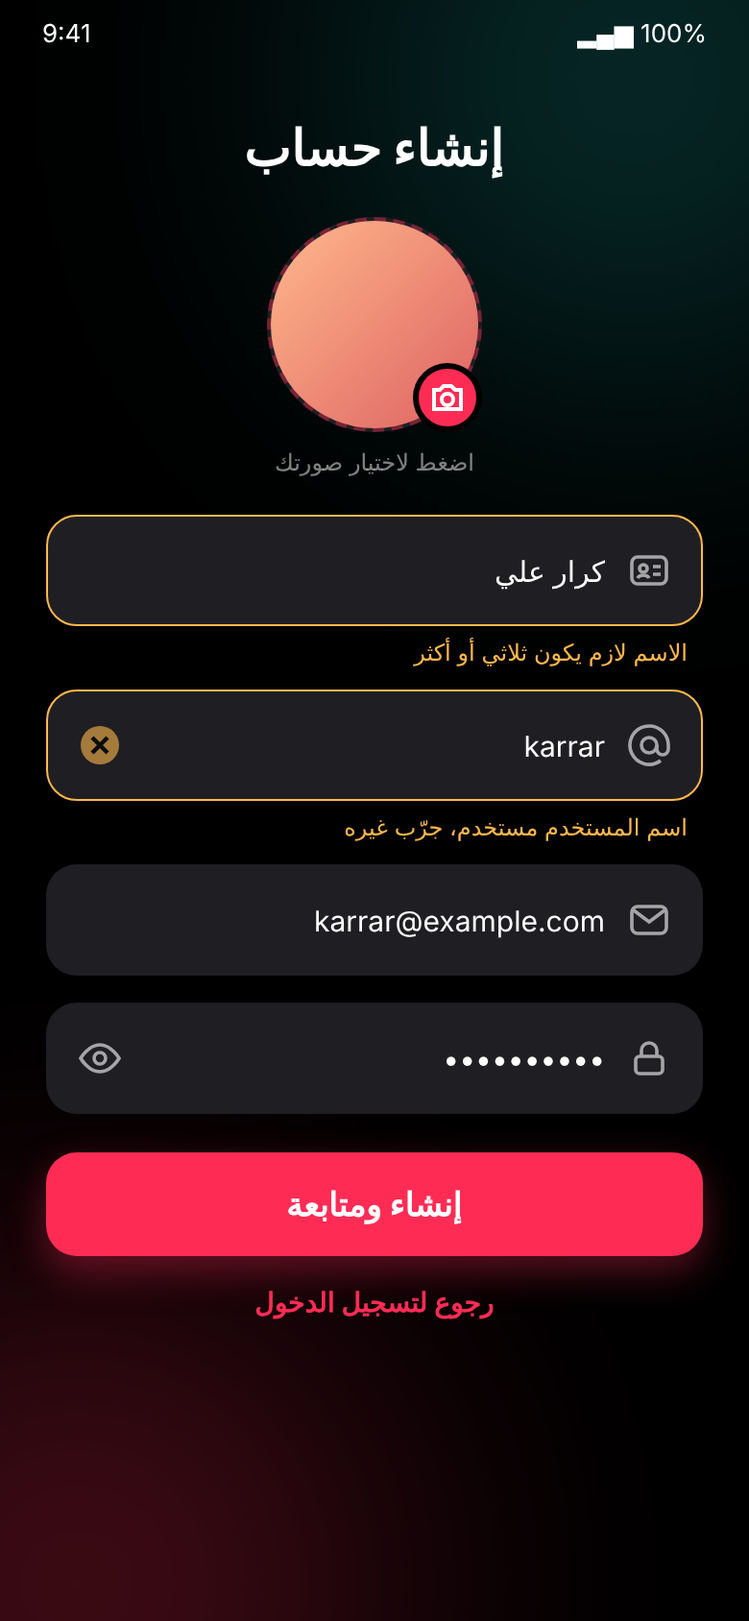
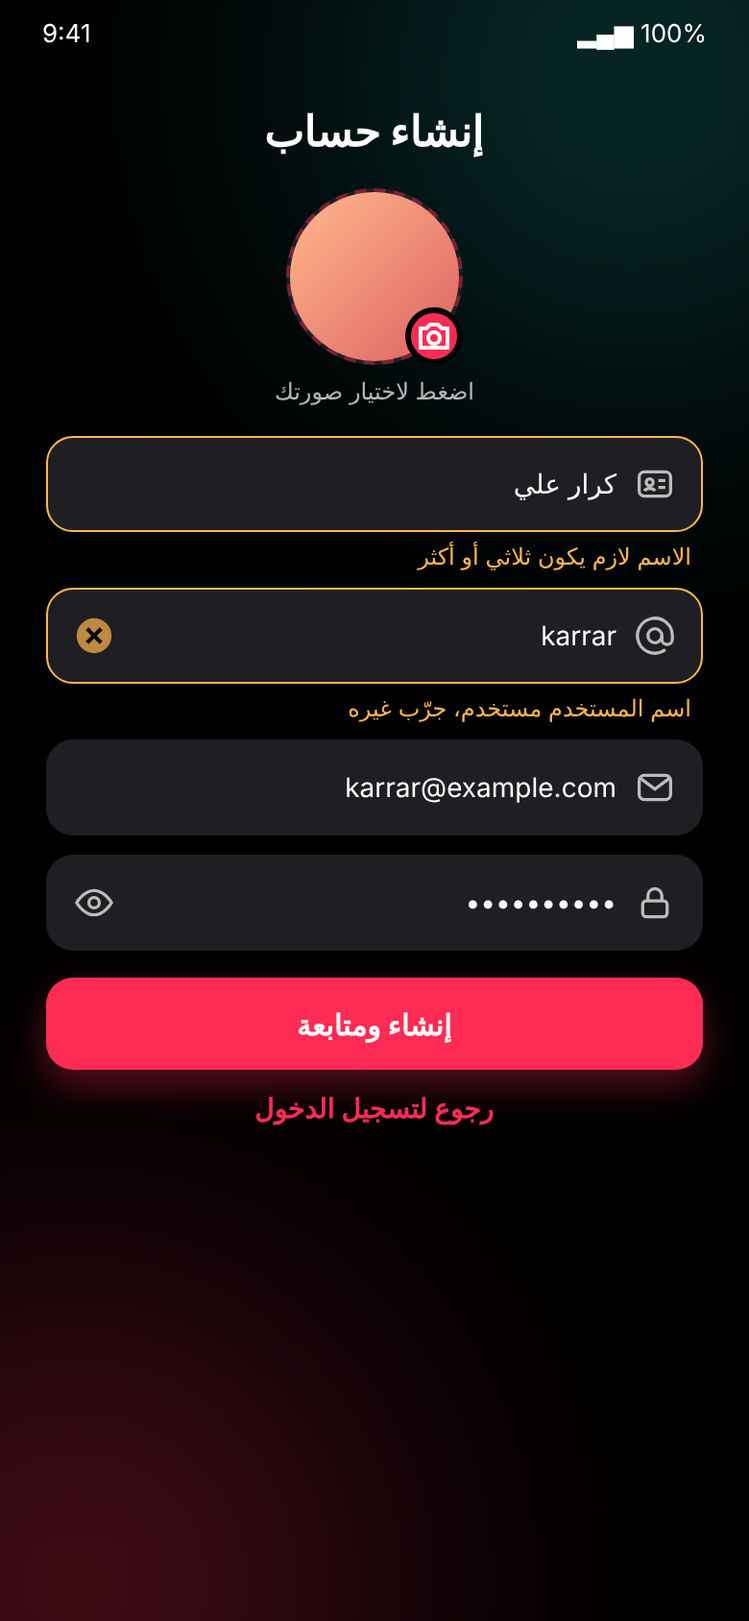
Tidy auth layout: smaller buttons/text, clearer labels, tighter spacing
Claude-Session: https://claude.ai/code/session_01N6c9u912eeEXPPBNT32Pm8

diff --git a/mockups/mock.html b/mockups/mock.html
@@ -6,28 +6,28 @@ body{width:390px;height:844px;background:#000;color:#fff;font-family:system-ui,"
 .glow{position:absolute;width:320px;height:320px;border-radius:50%;filter:blur(90px);opacity:.35}
 .g1{background:#25F4EE;opacity:.18;top:-120px;right:-100px}.g2{background:#FE2C55;bottom:-140px;left:-120px;opacity:.28}
 .status{position:absolute;top:0;left:0;right:0;height:34px;display:flex;justify-content:space-between;padding:10px 22px;font-size:13px;direction:ltr;z-index:3}
-.screen{position:relative;z-index:2;height:100%;padding:70px 24px 24px;display:flex;flex-direction:column}
-.center{justify-content:center;padding-top:34px}
-.logo{display:flex;flex-direction:column;align-items:center;margin-bottom:34px}
-.logo .ic{width:76px;height:76px;border-radius:24px;background:#000;border:1px solid #ffffff1f;display:grid;place-items:center;box-shadow:0 12px 30px #FE2C5555}
-.logo h1{font-size:30px;font-weight:800;margin-top:14px}
-.logo p{color:#ffffff80;font-size:13px;margin-top:4px}
-.field{background:#1F1F23;border-radius:16px;height:58px;display:flex;align-items:center;gap:12px;padding:0 16px;margin-bottom:14px;border:1.6px solid transparent;color:#ffffff66;font-size:15px}
-.field svg{flex:none;opacity:.6}
+.screen{position:relative;z-index:2;height:100%;padding:64px 24px 24px;display:flex;flex-direction:column}
+.center{justify-content:center;padding-top:40px;padding-bottom:90px}
+.logo{display:flex;flex-direction:column;align-items:center;margin-bottom:26px}
+.logo .ic{width:64px;height:64px;border-radius:20px;background:#000;border:1px solid #ffffff1f;display:grid;place-items:center;box-shadow:0 12px 30px #FE2C5555}
+.logo h1{font-size:24px;font-weight:800;margin-top:10px}
+.logo p{color:#ffffffb3;font-size:12px;margin-top:3px}
+.field{background:#1F1F23;border-radius:14px;height:50px;display:flex;align-items:center;gap:10px;padding:0 14px;margin-bottom:10px;border:1.5px solid transparent;color:#ffffffb3;font-size:14px}
+.field svg{flex:none;opacity:.7;width:20px;height:20px}
 .field span{flex:1}.field.val{color:#fff}
 .field.focus{border-color:#FE2C55}
 .field.err{border-color:#FFB84D}.field.ok{border-color:#3ddc97}
-.hint{font-size:12px;margin:-8px 8px 12px;}
+.hint{font-size:12px;margin:-5px 6px 9px;}
 .hint.e{color:#FFB84D}.hint.o{color:#3ddc97}
-.forgot{color:#FE2C55;font-size:14px;margin:-2px 4px 18px}
-.btn{height:54px;border-radius:16px;background:#FE2C55;display:grid;place-items:center;font-weight:700;font-size:17px;box-shadow:0 8px 20px #FE2C5559}
-.alt{text-align:center;margin-top:22px;font-size:14px;color:#ffffffcc}.alt b{color:#FE2C55;margin-right:6px}
-.back{text-align:center;color:#FE2C55;font-size:14px;margin-top:16px;font-weight:600}
-h2{font-size:26px;font-weight:800;text-align:center;margin-bottom:20px}
-.avatar{align-self:center;position:relative;width:112px;height:112px}
-.avatar .c{width:112px;height:112px;border-radius:50%;background:#1F1F23;display:grid;place-items:center;overflow:hidden;border:2px dashed #FE2C5566}
-.avatar .cam{position:absolute;bottom:0;right:0;width:36px;height:36px;border-radius:50%;background:#FE2C55;display:grid;place-items:center;border:3px solid #000}
-.cap{text-align:center;color:#ffffff80;font-size:12px;margin:8px 0 20px}
+.forgot{color:#ffffffb3;font-size:13px;margin:0 4px 14px}
+.btn{height:48px;border-radius:14px;background:#FE2C55;display:grid;place-items:center;font-weight:700;font-size:15px;box-shadow:0 8px 20px #FE2C5559}
+.alt{text-align:center;margin-top:14px;font-size:13px;color:#ffffffb3}.alt b{font-size:14px}.alt b{color:#FE2C55;margin-right:6px}
+.back{text-align:center;color:#FE2C55;font-size:14px;margin-top:12px;font-weight:600}
+h2{font-size:22px;font-weight:800;text-align:center;margin-bottom:16px}
+.avatar{align-self:center;position:relative;width:92px;height:92px}
+.avatar .c{width:92px;height:92px;border-radius:50%;background:#1F1F23;display:grid;place-items:center;overflow:hidden;border:2px dashed #FE2C5566}
+.avatar .cam{position:absolute;bottom:0;right:0;width:30px;height:30px;border-radius:50%;background:#FE2C55;display:grid;place-items:center;border:3px solid #000}
+.cap{text-align:center;color:#ffffffb3;font-size:12px;margin:6px 0 16px}
 .photo{background:linear-gradient(135deg,#ffb88c,#de6262);width:100%;height:100%}
 /* crop */
 .crop{position:absolute;inset:0;background:#000;z-index:5;display:flex;flex-direction:column}
@@ -48,37 +48,37 @@ h2{font-size:26px;font-weight:800;text-align:center;margin-bottom:20px}
 <body><div id="ph" dir="rtl" style="position:absolute;inset:0;overflow:hidden">
 <div class="glow g1"></div><div class="glow g2"></div>
 <div class="status"><span>9:41</span><span>▂▄▆ 100%</span></div>
-<div id="root"></div>
+<div id="root" style="height:100%"></div>
 </div><script>
 const I={
-mail:'<svg width="22" height="22" fill="none" stroke="#fff" stroke-width="1.8"><rect x="2" y="4" width="18" height="14" rx="3"/><path d="M3 6l8 6 8-6"/></svg>',
-lock:'<svg width="22" height="22" fill="none" stroke="#fff" stroke-width="1.8"><rect x="4" y="10" width="14" height="9" rx="2"/><path d="M7 10V7a4 4 0 018 0v3"/></svg>',
-eye:'<svg width="22" height="22" fill="none" stroke="#fff" stroke-width="1.8"><path d="M1 11s4-7 10-7 10 7 10 7-4 7-10 7S1 11 1 11z"/><circle cx="11" cy="11" r="3"/></svg>',
-user:'<svg width="22" height="22" fill="none" stroke="#fff" stroke-width="1.8"><circle cx="11" cy="8" r="4"/><path d="M3 20c1-5 5-6 8-6s7 1 8 6"/></svg>',
-at:'<svg width="22" height="22" fill="none" stroke="#fff" stroke-width="1.8"><circle cx="11" cy="11" r="4"/><path d="M15 11v2a3 3 0 006 0v-2a10 10 0 10-4 8"/></svg>',
-badge:'<svg width="22" height="22" fill="none" stroke="#fff" stroke-width="1.8"><rect x="2" y="4" width="18" height="14" rx="3"/><circle cx="8" cy="10" r="2"/><path d="M13 9h4M13 13h4M5 15c1-2 5-2 6 0"/></svg>',
+mail:'<svg width="22" height="22" viewBox="0 0 22 22" fill="none" stroke="#fff" stroke-width="1.8"><rect x="2" y="4" width="18" height="14" rx="3"/><path d="M3 6l8 6 8-6"/></svg>',
+lock:'<svg width="22" height="22" viewBox="0 0 22 22" fill="none" stroke="#fff" stroke-width="1.8"><rect x="4" y="10" width="14" height="9" rx="2"/><path d="M7 10V7a4 4 0 018 0v3"/></svg>',
+eye:'<svg width="22" height="22" viewBox="0 0 22 22" fill="none" stroke="#fff" stroke-width="1.8"><path d="M1 11s4-7 10-7 10 7 10 7-4 7-10 7S1 11 1 11z"/><circle cx="11" cy="11" r="3"/></svg>',
+user:'<svg width="22" height="22" viewBox="0 0 22 22" fill="none" stroke="#fff" stroke-width="1.8"><circle cx="11" cy="8" r="4"/><path d="M3 20c1-5 5-6 8-6s7 1 8 6"/></svg>',
+at:'<svg width="22" height="22" viewBox="0 0 22 22" fill="none" stroke="#fff" stroke-width="1.8"><circle cx="11" cy="11" r="4"/><path d="M15 11v2a3 3 0 006 0v-2a10 10 0 10-4 8"/></svg>',
+badge:'<svg width="22" height="22" viewBox="0 0 22 22" fill="none" stroke="#fff" stroke-width="1.8"><rect x="2" y="4" width="18" height="14" rx="3"/><circle cx="8" cy="10" r="2"/><path d="M13 9h4M13 13h4M5 15c1-2 5-2 6 0"/></svg>',
 cam:'<svg width="18" height="18" fill="none" stroke="#fff" stroke-width="2"><path d="M2 5h3l2-2h4l2 2h3v10H2z"/><circle cx="9" cy="10" r="3"/></svg>',
-person:'<svg width="56" height="56" fill="#ffffff55"><circle cx="28" cy="20" r="11"/><path d="M6 52c2-14 12-17 22-17s20 3 22 17z"/></svg>',
-ok:'<svg width="22" height="22" fill="#3ddc97"><circle cx="11" cy="11" r="10"/><path d="M6 11l4 4 6-7" stroke="#000" stroke-width="2.2" fill="none"/></svg>',
-no:'<svg width="22" height="22" fill="#FFB84D"><circle cx="11" cy="11" r="10"/><path d="M7 7l8 8M15 7l-8 8" stroke="#000" stroke-width="2.2"/></svg>',
+person:'<svg width="46" height="46" viewBox="0 0 56 56" fill="#ffffff66"><circle cx="28" cy="20" r="11"/><path d="M6 52c2-14 12-17 22-17s20 3 22 17z"/></svg>',
+ok:'<svg width="22" height="22" viewBox="0 0 22 22" fill="#3ddc97"><circle cx="11" cy="11" r="10"/><path d="M6 11l4 4 6-7" stroke="#000" stroke-width="2.2" fill="none"/></svg>',
+no:'<svg width="22" height="22" viewBox="0 0 22 22" fill="#FFB84D"><circle cx="11" cy="11" r="10"/><path d="M7 7l8 8M15 7l-8 8" stroke="#000" stroke-width="2.2"/></svg>',
 img:'<svg width="24" height="24" fill="none" stroke="#FE2C55" stroke-width="1.8"><rect x="2" y="3" width="20" height="18" rx="3"/><circle cx="8" cy="9" r="2"/><path d="M3 18l6-6 4 4 3-3 5 5"/></svg>'};
 const f=(ic,t,o={})=>`<div class="field ${o.val?'val':''} ${o.cls||''}">${I[ic]}<span ${o.ltr?'style="direction:ltr;text-align:right"':''}>${t}</span>${o.end||''}</div>${o.hint||''}`;
-const logo=`<div class="logo"><div class="ic"><svg width="52" height="52" viewBox="0 0 44 44" style="overflow:visible"><g fill="#25F4EE" transform="translate(-2.2,-2.2)"><circle cx="22" cy="14" r="7"/><circle cx="9" cy="19" r="5" opacity=".8"/><circle cx="35" cy="19" r="5" opacity=".8"/><path d="M8 38c1-9 7-12 14-12s13 3 14 12z"/></g><g fill="#FE2C55" transform="translate(2.2,2.2)"><circle cx="22" cy="14" r="7"/><circle cx="9" cy="19" r="5" opacity=".8"/><circle cx="35" cy="19" r="5" opacity=".8"/><path d="M8 38c1-9 7-12 14-12s13 3 14 12z"/></g><g fill="#fff"><circle cx="22" cy="14" r="7"/><circle cx="9" cy="19" r="5" opacity=".8"/><circle cx="35" cy="19" r="5" opacity=".8"/><path d="M8 38c1-9 7-12 14-12s13 3 14 12z"/></g></svg></div><h1>جماعتكم</h1><p>مقاطعك، جماعتك</p></div>`;
+const logo=`<div class="logo"><div class="ic"><svg width="40" height="40" viewBox="0 0 44 44" style="overflow:visible"><g fill="#25F4EE" transform="translate(-2.2,-2.2)"><circle cx="22" cy="14" r="7"/><circle cx="9" cy="19" r="5" opacity=".8"/><circle cx="35" cy="19" r="5" opacity=".8"/><path d="M8 38c1-9 7-12 14-12s13 3 14 12z"/></g><g fill="#FE2C55" transform="translate(2.2,2.2)"><circle cx="22" cy="14" r="7"/><circle cx="9" cy="19" r="5" opacity=".8"/><circle cx="35" cy="19" r="5" opacity=".8"/><path d="M8 38c1-9 7-12 14-12s13 3 14 12z"/></g><g fill="#fff"><circle cx="22" cy="14" r="7"/><circle cx="9" cy="19" r="5" opacity=".8"/><circle cx="35" cy="19" r="5" opacity=".8"/><path d="M8 38c1-9 7-12 14-12s13 3 14 12z"/></g></svg></div><h1>جماعتكم</h1><p>مقاطعك، جماعتك</p></div>`;
 const S={
 login:`<div class="screen center">${logo}${f('mail','البريد الإلكتروني')}${f('lock','كلمة السر',{end:I.eye})}<div class="forgot">نسيت كلمة السر؟</div><div class="btn">دخول ومتابعة</div><div class="alt">ما عندك حساب؟<b>إنشاء حساب</b></div></div>`,
 login_filled:`<div class="screen center">${logo}${f('mail','karrar@example.com',{val:1,ltr:1,cls:'focus'})}${f('lock','••••••••••',{val:1,ltr:1,end:I.eye})}<div class="forgot">نسيت كلمة السر؟</div><div class="btn">دخول ومتابعة</div><div class="alt">ما عندك حساب؟<b>إنشاء حساب</b></div></div>`,
-reg:(o)=>`<div class="screen" style="padding-top:62px"><h2>إنشاء حساب</h2><div class="avatar"><div class="c">${o.photo?'<div class="photo"></div>':I.person}</div><div class="cam">${I.cam}</div></div><div class="cap">اضغط لاختيار صورتك</div>
+reg:(o)=>`<div class="screen" style="padding-top:56px"><h2>إنشاء حساب</h2><div class="avatar"><div class="c">${o.photo?'<div class="photo"></div>':I.person}</div><div class="cam">${I.cam}</div></div><div class="cap">اضغط لاختيار صورتك</div>
 ${f('badge',o.name||'الاسم الثلاثي',{val:!!o.name,cls:o.nameCls||'',hint:o.nameHint||''})}
 ${f('at',o.user||'اسم المستخدم (اليوزر)',{val:!!o.user,ltr:!!o.user,cls:o.userCls||'',end:o.userEnd||'',hint:o.userHint||''})}
 ${f('mail',o.email||'بريدك الإلكتروني',{val:!!o.email,ltr:!!o.email})}
 ${f('lock',o.pass||'كلمة السر (8 أحرف على الأقل)',{val:!!o.pass,ltr:!!o.pass,end:I.eye})}
-<div class="btn" style="margin-top:6px">إنشاء ومتابعة</div><div class="back">رجوع لتسجيل الدخول</div></div>`,
+<div class="btn" style="margin-top:4px">إنشاء ومتابعة</div><div class="back">رجوع لتسجيل الدخول</div></div>`,
 };
 S.register=S.reg({});
 S.reg_ok=S.reg({photo:1,name:'كرار علي حسن',nameCls:'',user:'karrar_ali',userCls:'ok',userEnd:I.ok,userHint:'<div class="hint o">اسم المستخدم متاح ✓</div>',email:'karrar@example.com',pass:'••••••••••'});
 S.reg_taken=S.reg({photo:1,name:'كرار علي',nameCls:'err',nameHint:'<div class="hint e">الاسم لازم يكون ثلاثي أو أكثر</div>',user:'karrar',userCls:'err',userEnd:I.no,userHint:'<div class="hint e">اسم المستخدم مستخدم، جرّب غيره</div>',email:'karrar@example.com',pass:'••••••••••'});
 S.perm=S.register+`<div class="sheet"><div class="in"><div class="h"></div><div style="font-weight:800;font-size:18px;margin-bottom:6px">اختر صورتك</div><div style="color:#ffffff80;font-size:13px;margin-bottom:8px">جماعتكم يبي يوصل لصورة وحدة بس تختارها، مو كل صورك</div><div class="row"><i>${I.img}</i>اختيار من المعرض</div><div class="row"><i>${I.cam.replace(/#fff/g,'#FE2C55')}</i>التقاط صورة بالكاميرا</div></div></div>`;
 S.crop=`<div class="crop"><div class="bar"><span>✕</span><span>حدد الصورة</span><span style="width:20px"></span></div><div class="area"><div class="shade"></div><div class="grid"></div><div class="ring"></div></div><div class="foot"><span style="color:#ffffff99">إلغاء</span><div class="ok">موافق</div></div></div>`;
-S.forgot=`<div class="screen" style="padding-top:80px"><div style="font-size:26px;font-weight:800">نسيت كلمة السر؟</div><div style="color:#ffffff99;margin:8px 0 28px;font-size:14px">اكتب بريدك وراح نرسل لك رابط إعادة التعيين</div>${f('mail','البريد الإلكتروني')}<div class="btn" style="margin-top:6px">إرسال الرابط</div><div class="back">رجوع لتسجيل الدخول</div></div>`;
+S.forgot=`<div class="screen" style="padding-top:72px"><div style="font-size:22px;font-weight:800">نسيت كلمة السر؟</div><div style="color:#ffffffb3;margin:6px 0 22px;font-size:13px">اكتب بريدك وراح نرسل لك رابط إعادة التعيين</div>${f('mail','البريد الإلكتروني')}<div class="btn" style="margin-top:4px">إرسال الرابط</div><div class="back">رجوع لتسجيل الدخول</div></div>`;
 document.getElementById('root').innerHTML=S[location.hash.slice(1)||'login'];
 </script></body></html>

diff --git a/app/lib/theme.dart b/app/lib/theme.dart
@@ -15,12 +15,15 @@ ThemeData buildTheme() => ThemeData(
       inputDecorationTheme: InputDecorationTheme(
         filled: true,
         fillColor: fieldFill,
-        contentPadding: const EdgeInsets.symmetric(horizontal: 16, vertical: 18),
-        border: OutlineInputBorder(borderRadius: BorderRadius.circular(16), borderSide: BorderSide.none),
-        enabledBorder: OutlineInputBorder(borderRadius: BorderRadius.circular(16), borderSide: BorderSide.none),
-        focusedBorder: OutlineInputBorder(borderRadius: BorderRadius.circular(16), borderSide: const BorderSide(color: brand, width: 1.6)),
-        errorBorder: OutlineInputBorder(borderRadius: BorderRadius.circular(16), borderSide: const BorderSide(color: Color(0xFFFFB84D))),
-        focusedErrorBorder: OutlineInputBorder(borderRadius: BorderRadius.circular(16), borderSide: const BorderSide(color: Color(0xFFFFB84D), width: 1.6)),
+        contentPadding: const EdgeInsets.symmetric(horizontal: 16, vertical: 14),
+        hintStyle: const TextStyle(color: Color(0xB3FFFFFF), fontSize: 14),
+        prefixIconColor: const Color(0xB3FFFFFF),
+        suffixIconColor: const Color(0xB3FFFFFF),
+        border: OutlineInputBorder(borderRadius: BorderRadius.circular(14), borderSide: BorderSide.none),
+        enabledBorder: OutlineInputBorder(borderRadius: BorderRadius.circular(14), borderSide: BorderSide.none),
+        focusedBorder: OutlineInputBorder(borderRadius: BorderRadius.circular(14), borderSide: const BorderSide(color: brand, width: 1.6)),
+        errorBorder: OutlineInputBorder(borderRadius: BorderRadius.circular(14), borderSide: const BorderSide(color: Color(0xFFFFB84D))),
+        focusedErrorBorder: OutlineInputBorder(borderRadius: BorderRadius.circular(14), borderSide: const BorderSide(color: Color(0xFFFFB84D), width: 1.6)),
       ),
     );
 
@@ -32,11 +35,11 @@ class GradientButton extends StatelessWidget {
   @override
   Widget build(BuildContext context) => SizedBox(
         width: double.infinity,
-        height: 54,
+        height: 48,
         child: DecoratedBox(
           decoration: BoxDecoration(
             gradient: const LinearGradient(colors: [brand, brand]),
-            borderRadius: BorderRadius.circular(16),
+            borderRadius: BorderRadius.circular(14),
             boxShadow: [BoxShadow(color: brand.withOpacity(.35), blurRadius: 18, offset: const Offset(0, 8))],
           ),
           child: ElevatedButton(
@@ -44,11 +47,11 @@ class GradientButton extends StatelessWidget {
             style: ElevatedButton.styleFrom(
               backgroundColor: Colors.transparent,
               shadowColor: Colors.transparent,
-              shape: RoundedRectangleBorder(borderRadius: BorderRadius.circular(16)),
+              shape: RoundedRectangleBorder(borderRadius: BorderRadius.circular(14)),
             ),
             child: loading
                 ? const SizedBox(width: 22, height: 22, child: CircularProgressIndicator(strokeWidth: 2.4, color: Colors.white))
-                : Text(text, style: const TextStyle(fontSize: 17, fontWeight: FontWeight.bold, color: Colors.white)),
+                : Text(text, style: const TextStyle(fontSize: 15, fontWeight: FontWeight.bold, color: Colors.white)),
           ),
         ),
       );
@@ -59,21 +62,21 @@ class AuthLogo extends StatelessWidget {
   @override
   Widget build(BuildContext context) => Column(children: [
         Container(
-          width: 76,
-          height: 76,
+          width: 64,
+          height: 64,
           decoration: BoxDecoration(
             color: Colors.black,
             border: Border.all(color: Colors.white12),
             borderRadius: BorderRadius.circular(24),
           ),
           child: Stack(alignment: Alignment.center, children: [
-            Transform(transform: Matrix4Translate.shift(-2.5, -2.5), child: const Icon(Icons.groups_rounded, size: 42, color: cyan)),
-            Transform(transform: Matrix4Translate.shift(2.5, 2.5), child: const Icon(Icons.groups_rounded, size: 42, color: brand)),
-            Icon(Icons.groups_rounded, size: 42, color: Colors.white),
+            Transform(transform: Matrix4Translate.shift(-2.5, -2.5), child: const Icon(Icons.groups_rounded, size: 34, color: cyan)),
+            Transform(transform: Matrix4Translate.shift(2.5, 2.5), child: const Icon(Icons.groups_rounded, size: 34, color: brand)),
+            Icon(Icons.groups_rounded, size: 34, color: Colors.white),
           ]),
         ),
-        const SizedBox(height: 14),
-        const Text('جماعتكم', style: TextStyle(fontSize: 30, fontWeight: FontWeight.w800)),
+        const SizedBox(height: 10),
+        const Text('جماعتكم', style: TextStyle(fontSize: 24, fontWeight: FontWeight.w800)),
       ]);
 }
 

diff --git a/app/lib/register_screen.dart b/app/lib/register_screen.dart
@@ -95,25 +95,25 @@ class _RegisterScreenState extends State<RegisterScreen> {
             child: Form(
               key: _form,
               child: Column(children: [
-                const Text('إنشاء حساب', style: TextStyle(fontSize: 26, fontWeight: FontWeight.w800)),
-                const SizedBox(height: 22),
+                const Text('إنشاء حساب', style: TextStyle(fontSize: 22, fontWeight: FontWeight.w800)),
+                const SizedBox(height: 16),
                 GestureDetector(
                   onTap: _pickAvatar,
                   child: Stack(children: [
-                    CircleAvatar(radius: 56, backgroundColor: fieldFill, backgroundImage: _avatar != null ? FileImage(_avatar!) : null,
-                        child: _avatar == null ? const Icon(Icons.person_rounded, size: 56, color: Colors.white38) : null),
+                    CircleAvatar(radius: 46, backgroundColor: fieldFill, backgroundImage: _avatar != null ? FileImage(_avatar!) : null,
+                        child: _avatar == null ? const Icon(Icons.person_rounded, size: 46, color: Colors.white54) : null),
                     Positioned(bottom: 0, right: 0, child: Container(padding: const EdgeInsets.all(8), decoration: const BoxDecoration(color: brand, shape: BoxShape.circle), child: const Icon(Icons.camera_alt_rounded, size: 18, color: Colors.white))),
                   ]),
                 ),
                 const SizedBox(height: 6),
-                const Text('اضغط لاختيار صورتك', style: TextStyle(color: Colors.white54, fontSize: 12)),
-                const SizedBox(height: 22),
+                const Text('اضغط لاختيار صورتك', style: TextStyle(color: Colors.white70, fontSize: 12)),
+                const SizedBox(height: 16),
                 TextFormField(
                   controller: _name,
                   decoration: const InputDecoration(hintText: 'الاسم الثلاثي', prefixIcon: Icon(Icons.badge_outlined)),
                   validator: (v) => (v ?? '').trim().split(RegExp(r'\s+')).where((w) => w.isNotEmpty).length >= 3 ? null : 'الاسم لازم يكون ثلاثي أو أكثر',
                 ),
-                const SizedBox(height: 14),
+                const SizedBox(height: 10),
                 TextFormField(
                   controller: _user,
                   textDirection: TextDirection.ltr,
@@ -130,7 +130,7 @@ class _RegisterScreenState extends State<RegisterScreen> {
                   ),
                   validator: (v) => (v ?? '').trim().isEmpty ? 'اكتب اسم المستخدم' : null,
                 ),
-                const SizedBox(height: 14),
+                const SizedBox(height: 10),
                 TextFormField(
                   controller: _email,
                   keyboardType: TextInputType.emailAddress,
@@ -138,7 +138,7 @@ class _RegisterScreenState extends State<RegisterScreen> {
                   decoration: const InputDecoration(hintText: 'بريدك الإلكتروني', prefixIcon: Icon(Icons.mail_outline)),
                   validator: (v) => _emailRe.hasMatch(v?.trim() ?? '') ? null : 'اكتب بريد إلكتروني صحيح',
                 ),
-                const SizedBox(height: 14),
+                const SizedBox(height: 10),
                 TextFormField(
                   controller: _pass,
                   obscureText: _hide,
@@ -150,11 +150,11 @@ class _RegisterScreenState extends State<RegisterScreen> {
                   ),
                   validator: (v) => (v ?? '').length >= 8 ? null : 'كلمة السر 8 أحرف على الأقل',
                 ),
-                const SizedBox(height: 22),
+                const SizedBox(height: 16),
                 if (_serverError != null) Padding(padding: const EdgeInsets.only(bottom: 10), child: Text(_serverError!, style: const TextStyle(color: Color(0xFFFFB84D)))),
                 GradientButton(text: 'إنشاء ومتابعة', loading: _loading, onPressed: _submit),
-                const SizedBox(height: 14),
-                TextButton(onPressed: () => Navigator.pop(context), child: const Text('رجوع لتسجيل الدخول', style: TextStyle(color: brand))),
+                const SizedBox(height: 6),
+                TextButton(onPressed: () => Navigator.pop(context), child: const Text('رجوع لتسجيل الدخول', style: TextStyle(fontSize: 14, color: brand))),
               ]),
             ),
           ),

diff --git a/app/lib/login_screen.dart b/app/lib/login_screen.dart
@@ -44,7 +44,7 @@ class _LoginScreenState extends State<LoginScreen> {
                 key: _form,
                 child: Column(children: [
                   const AuthLogo(),
-                  const SizedBox(height: 36),
+                  const SizedBox(height: 28),
                   TextFormField(
                     controller: _email,
                     keyboardType: TextInputType.emailAddress,
@@ -52,7 +52,7 @@ class _LoginScreenState extends State<LoginScreen> {
                     decoration: const InputDecoration(hintText: 'البريد الإلكتروني', prefixIcon: Icon(Icons.mail_outline)),
                     validator: (v) => RegExp(r'^[^@\s]+@[^@\s]+\.[^@\s]+$').hasMatch(v?.trim() ?? '') ? null : 'اكتب بريد إلكتروني صحيح',
                   ),
-                  const SizedBox(height: 14),
+                  const SizedBox(height: 10),
                   TextFormField(
                     controller: _pass,
                     obscureText: _hide,
@@ -68,17 +68,17 @@ class _LoginScreenState extends State<LoginScreen> {
                     alignment: AlignmentDirectional.centerStart,
                     child: TextButton(
                       onPressed: () => Navigator.push(context, MaterialPageRoute(builder: (_) => const ForgotScreen())),
-                      child: const Text('نسيت كلمة السر؟'),
+                      child: const Text('نسيت كلمة السر؟', style: TextStyle(fontSize: 13, color: Colors.white70)),
                     ),
                   ),
                   if (_error != null) Padding(padding: const EdgeInsets.only(bottom: 10), child: Text(_error!, style: const TextStyle(color: Color(0xFFFFB84D)))),
                   GradientButton(text: 'دخول ومتابعة', loading: _loading, onPressed: _submit),
-                  const SizedBox(height: 22),
+                  const SizedBox(height: 14),
                   Row(mainAxisAlignment: MainAxisAlignment.center, children: [
-                    const Text('ما عندك حساب؟'),
+                    const Text('ما عندك حساب؟', style: TextStyle(fontSize: 13, color: Colors.white70)),
                     TextButton(
                       onPressed: () => Navigator.push(context, MaterialPageRoute(builder: (_) => const RegisterScreen())),
-                      child: const Text('إنشاء حساب', style: TextStyle(fontWeight: FontWeight.bold, color: brand)),
+                      child: const Text('إنشاء حساب', style: TextStyle(fontSize: 14, fontWeight: FontWeight.bold, color: brand)),
                     ),
                   ]),
                 ]),

diff --git a/app/lib/forgot_screen.dart b/app/lib/forgot_screen.dart
@@ -29,17 +29,17 @@ class _ForgotScreenState extends State<ForgotScreen> {
         body: Padding(
           padding: const EdgeInsets.all(24),
           child: Column(crossAxisAlignment: CrossAxisAlignment.start, children: [
-            const Text('نسيت كلمة السر؟', style: TextStyle(fontSize: 26, fontWeight: FontWeight.w800)),
+            const Text('نسيت كلمة السر؟', style: TextStyle(fontSize: 22, fontWeight: FontWeight.w800)),
             const SizedBox(height: 8),
-            const Text('اكتب بريدك وراح نرسل لك رابط إعادة التعيين', style: TextStyle(color: Colors.white60)),
-            const SizedBox(height: 28),
+            const Text('اكتب بريدك وراح نرسل لك رابط إعادة التعيين', style: TextStyle(fontSize: 13, color: Colors.white70)),
+            const SizedBox(height: 22),
             TextField(
               controller: _email,
               keyboardType: TextInputType.emailAddress,
               textDirection: TextDirection.ltr,
               decoration: const InputDecoration(hintText: 'البريد الإلكتروني', prefixIcon: Icon(Icons.mail_outline)),
             ),
-            const SizedBox(height: 18),
+            const SizedBox(height: 14),
             if (_sent) const Padding(padding: EdgeInsets.only(bottom: 14), child: Text('تم الإرسال إذا كان البريد مسجّلاً ✓', style: TextStyle(color: Colors.greenAccent))),
             GradientButton(text: 'إرسال الرابط', loading: _loading, onPressed: _send),
             const SizedBox(height: 10),
